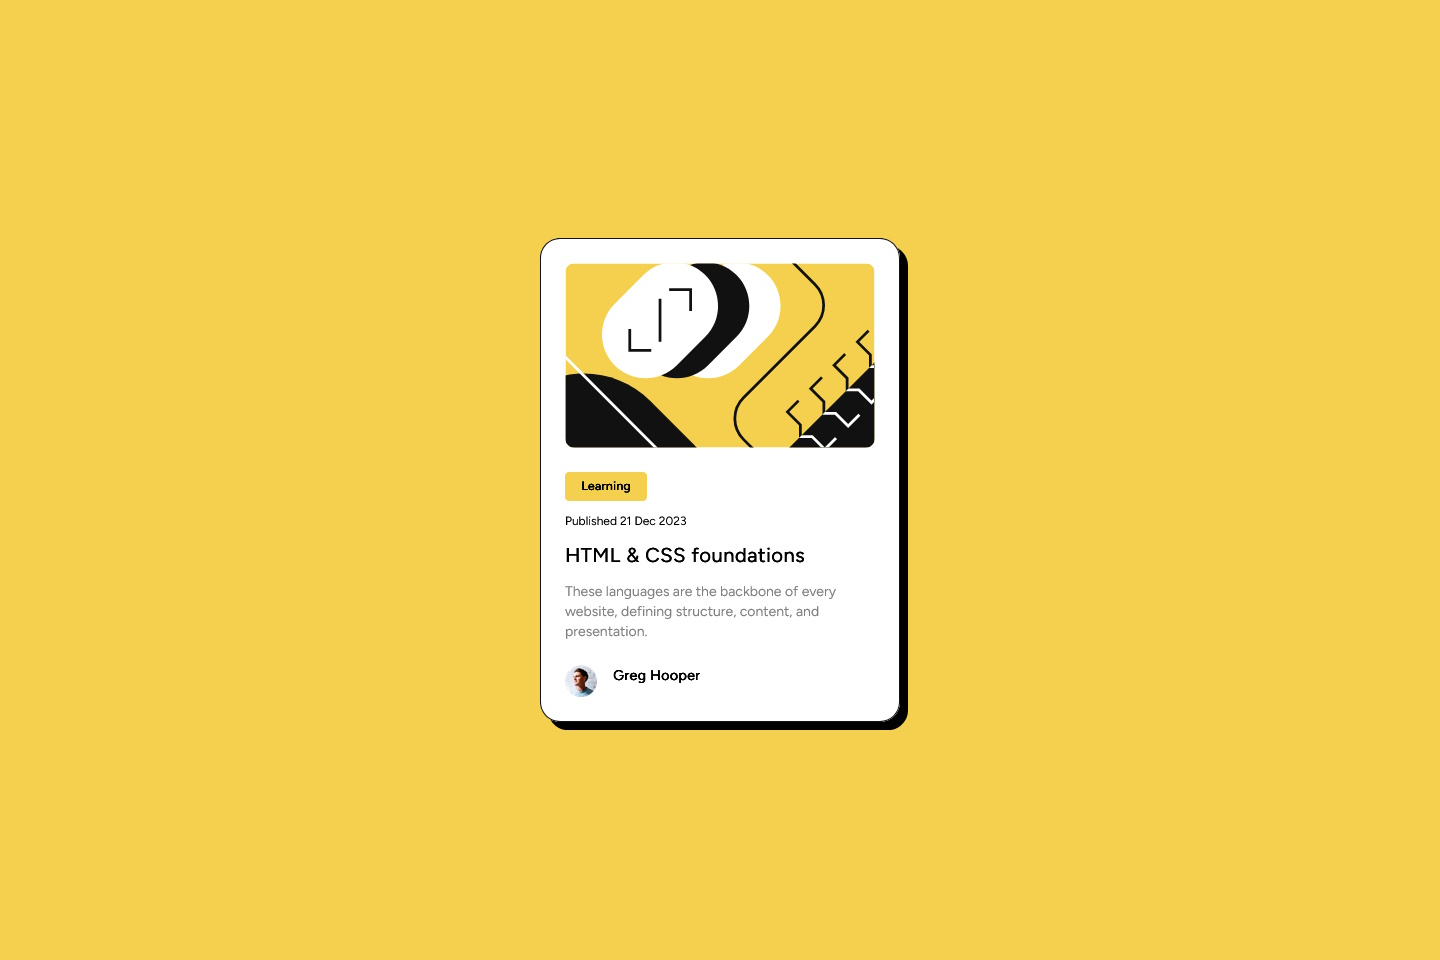
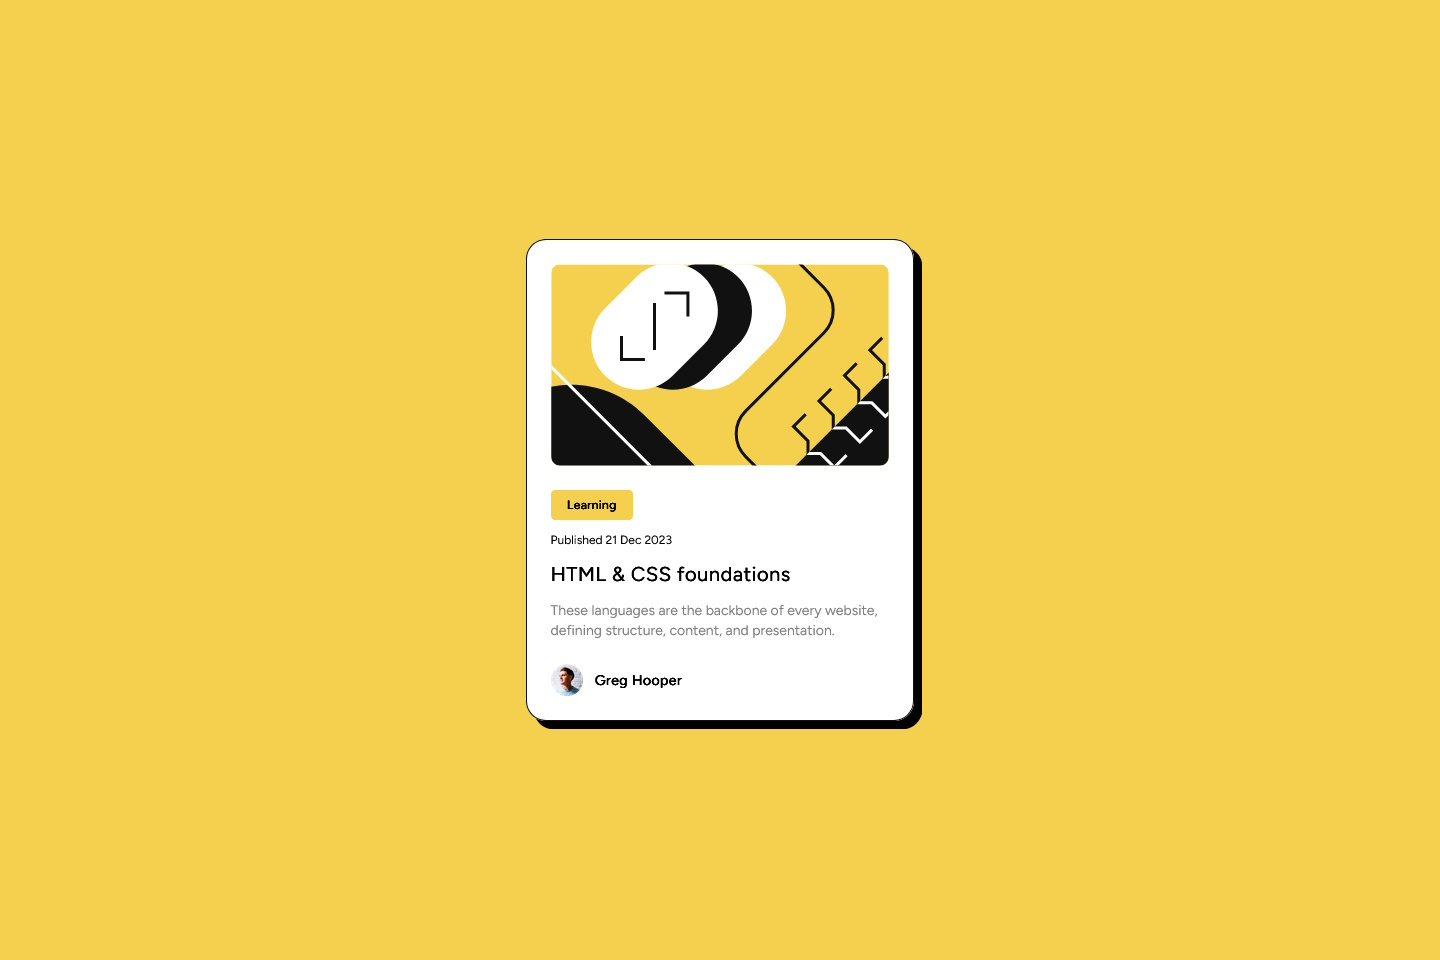
links

Changed region(s): [[0.3438, 0.25, 0.6562, 0.7812]]

diff --git a/src/output.css b/src/output.css
@@ -553,16 +553,17 @@ video {
   margin-bottom: 1.5rem;
 }
 
+.my-auto {
+  margin-top: auto;
+  margin-bottom: auto;
+}
+
 .flex {
   display: flex;
 }
 
 .h-8 {
   height: 2rem;
-}
-
-.h-\[29px\] {
-  height: 29px;
 }
 
 .min-h-screen {
@@ -581,10 +582,6 @@ video {
   max-width: 90%;
 }
 
-.max-w-\[85\%\] {
-  max-width: 85%;
-}
-
 .flex-row {
   flex-direction: row;
 }
@@ -597,10 +594,6 @@ video {
   gap: 0.75rem;
 }
 
-.gap-4 {
-  gap: 1rem;
-}
-
 .rounded-\[10px\] {
   border-radius: 10px;
 }
@@ -611,10 +604,6 @@ video {
 
 .rounded-\[4px\] {
   border-radius: 4px;
-}
-
-.border-2 {
-  border-width: 2px;
 }
 
 .border {
@@ -640,24 +629,18 @@ video {
   padding: 1.5rem;
 }
 
-.px-1 {
-  padding-left: 0.25rem;
-  padding-right: 0.25rem;
+.px-\[10px\] {
+  padding-left: 10px;
+  padding-right: 10px;
 }
 
-.px-1\.5 {
-  padding-left: 0.375rem;
-  padding-right: 0.375rem;
+.py-\[7px\] {
+  padding-top: 7px;
+  padding-bottom: 7px;
 }
 
-.py-1 {
-  padding-top: 0.25rem;
-  padding-bottom: 0.25rem;
-}
-
-.py-1\.5 {
-  padding-top: 0.375rem;
-  padding-bottom: 0.375rem;
+.text-left {
+  text-align: left;
 }
 
 .text-center {
@@ -668,19 +651,9 @@ video {
   font-family: 'Figtree';
 }
 
-.text-2xl {
-  font-size: 1.5rem;
-  line-height: 2rem;
-}
-
 .text-sm {
   font-size: 0.875rem;
   line-height: 1.25rem;
-}
-
-.text-xs {
-  font-size: 0.75rem;
-  line-height: 1rem;
 }
 
 .text-xl {
@@ -688,13 +661,9 @@ video {
   line-height: 1.75rem;
 }
 
-.text-base {
-  font-size: 1rem;
-  line-height: 1.5rem;
-}
-
-.font-bold {
-  font-weight: 700;
+.text-xs {
+  font-size: 0.75rem;
+  line-height: 1rem;
 }
 
 .font-extrabold {
@@ -705,31 +674,9 @@ video {
   font-weight: 500;
 }
 
-.font-normal {
-  font-weight: 400;
-}
-
 .text-grey {
   --tw-text-opacity: 1;
   color: hsl(0 0% 50% / var(--tw-text-opacity));
-}
-
-.shadow-\[14px_14px_0_0_black\] {
-  --tw-shadow: 14px 14px 0 0 black;
-  --tw-shadow-colored: 14px 14px 0 0 var(--tw-shadow-color);
-  box-shadow: var(--tw-ring-offset-shadow, 0 0 #0000), var(--tw-ring-shadow, 0 0 #0000), var(--tw-shadow);
-}
-
-.shadow-\[12px_12px_0_0_black\] {
-  --tw-shadow: 12px 12px 0 0 black;
-  --tw-shadow-colored: 12px 12px 0 0 var(--tw-shadow-color);
-  box-shadow: var(--tw-ring-offset-shadow, 0 0 #0000), var(--tw-ring-shadow, 0 0 #0000), var(--tw-shadow);
-}
-
-.shadow-\[10px_10px_0_0_black\] {
-  --tw-shadow: 10px 10px 0 0 black;
-  --tw-shadow-colored: 10px 10px 0 0 var(--tw-shadow-color);
-  box-shadow: var(--tw-ring-offset-shadow, 0 0 #0000), var(--tw-ring-shadow, 0 0 #0000), var(--tw-shadow);
 }
 
 .shadow-\[8px_8px_0_0_black\] {
@@ -740,30 +687,6 @@ video {
 
 .custom-class {
   background-color: aliceblue;
-}
-
-.image-overlay-mb {
-  background: url("../design/mobile-design.jpg") no-repeat center center;
-  background-size: cover;
-  position: absolute;
-  background-attachment: fixed;
-  top: 0px;
-  bottom: 0;
-  left: 0;
-  right: 0;
-  opacity:.50;
-}
-
-.image-overlay-lg {
-  background: url("../design/desktop-design.jpg") no-repeat center center;
-  background-size: cover;
-  position: absolute;
-  background-attachment: fixed;
-  top: 0px;
-  bottom: 0;
-  left: 0;
-  right: 0;
-  opacity:.50;
 }
 
 .hover\:cursor-pointer:hover {
@@ -782,7 +705,7 @@ video {
 }
 
 @media (min-width: 1024px) {
-  .lg\:max-w-\[25\%\] {
-    max-width: 25%;
+  .lg\:max-w-\[27\%\] {
+    max-width: 27%;
   }
 }

diff --git a/index.html b/index.html
@@ -8,15 +8,15 @@
   <link rel="stylesheet" href="https://fonts.googleapis.com/css?family=Figtree">
   <title>Frontend Mentor | Blog preview card</title>
 </head>
-<body class="font-['Figtree'] ">
+<body class="font-['Figtree']">
   <main class="bg-yellow flex align-items-center justify-content-center min-h-screen">
-    <div class="shadow-[8px_8px_0_0_black] border border-black bg-white flex flex-col m-auto p-6 rounded-[20px] max-w-[90%] md:max-w-[50%] lg:max-w-[25%]"><!-- CARD CONTAINER -->
+    <div class="shadow-[8px_8px_0_0_black] border border-black bg-white flex flex-col m-auto p-6 rounded-[20px] max-w-[90%] md:max-w-[50%] lg:max-w-[27%]"><!-- CARD CONTAINER -->
       <img 
         class="rounded-[10px]" 
         src="./assets/images/illustration-article.svg" 
         alt="Illustration arcticle">
       <div class="flex flex-col my-6 gap-3"><!-- CARD CONTENT -->
-        <span class="bg-yellow text-xs w-[82px] h-[29px] rounded-[4px] text-center py-1.5 px-1.5 font-extrabold">
+        <span class="bg-yellow text-xs w-[82px] rounded-[4px] text-center py-[7px] px-[10px] font-extrabold">
         Learning</span>
 
         <span class="text-xs font-medium">Published 21 Dec 2023</span>
@@ -25,12 +25,12 @@
 
         <p class="text-grey text-sm font-medium">These languages are the backbone of every website, defining structure, content, and presentation.</p>
       </div>
-      <div class="flex flex-row gap-4"><!-- AUTHOR -->
+      <div class="flex flex-row gap-3 align-items-center"><!-- AUTHOR -->
         <img 
           class="w-8 h-8"
           src="./assets/images/image-avatar.webp" 
           alt="Greg Hooper">
-        <div class="font-extrabold text-sm">Greg Hooper</div>
+        <span class="font-extrabold text-sm my-auto text-left">Greg Hooper</span>
       </div>    
     </div>
   </main>

diff --git a/src/input.css b/src/input.css
@@ -5,27 +5,3 @@
 .custom-class {
     background-color: aliceblue;
 }
-
-.image-overlay-mb {
-    background: url("../design/mobile-design.jpg") no-repeat center center;
-	background-size: cover;
-    position: absolute;
-    background-attachment: fixed;
-    top: 0px;
-    bottom: 0;
-    left: 0;
-    right: 0;
-	opacity:.50;
-}
-
-.image-overlay-lg {
-    background: url("../design/desktop-design.jpg") no-repeat center center;
-	background-size: cover;
-    position: absolute;
-    background-attachment: fixed;
-    top: 0px;
-    bottom: 0;
-    left: 0;
-    right: 0;
-	opacity:.50;
-}

diff --git a/README.md b/README.md
@@ -23,15 +23,15 @@ Users should be able to:
 
 - See hover and focus states for all interactive elements on the page
 
-### Screenshot
+### Screenshots
 
 ![](./screenshot.jpg)
 ![](./screenshot_mobile.jpg)
 
 ### Links
 
-- Solution URL: [Source code](https://your-solution-url.com)
-- Live Site URL: [Preview](https://your-live-site-url.com)
+- Solution URL: [Source code](https://github.com/theGamingKitten/blog-preview-card-main)
+- Live Site URL: [Preview](https://thegamingkitten.github.io/blog-preview-card-main/)
 
 ## My process
 
